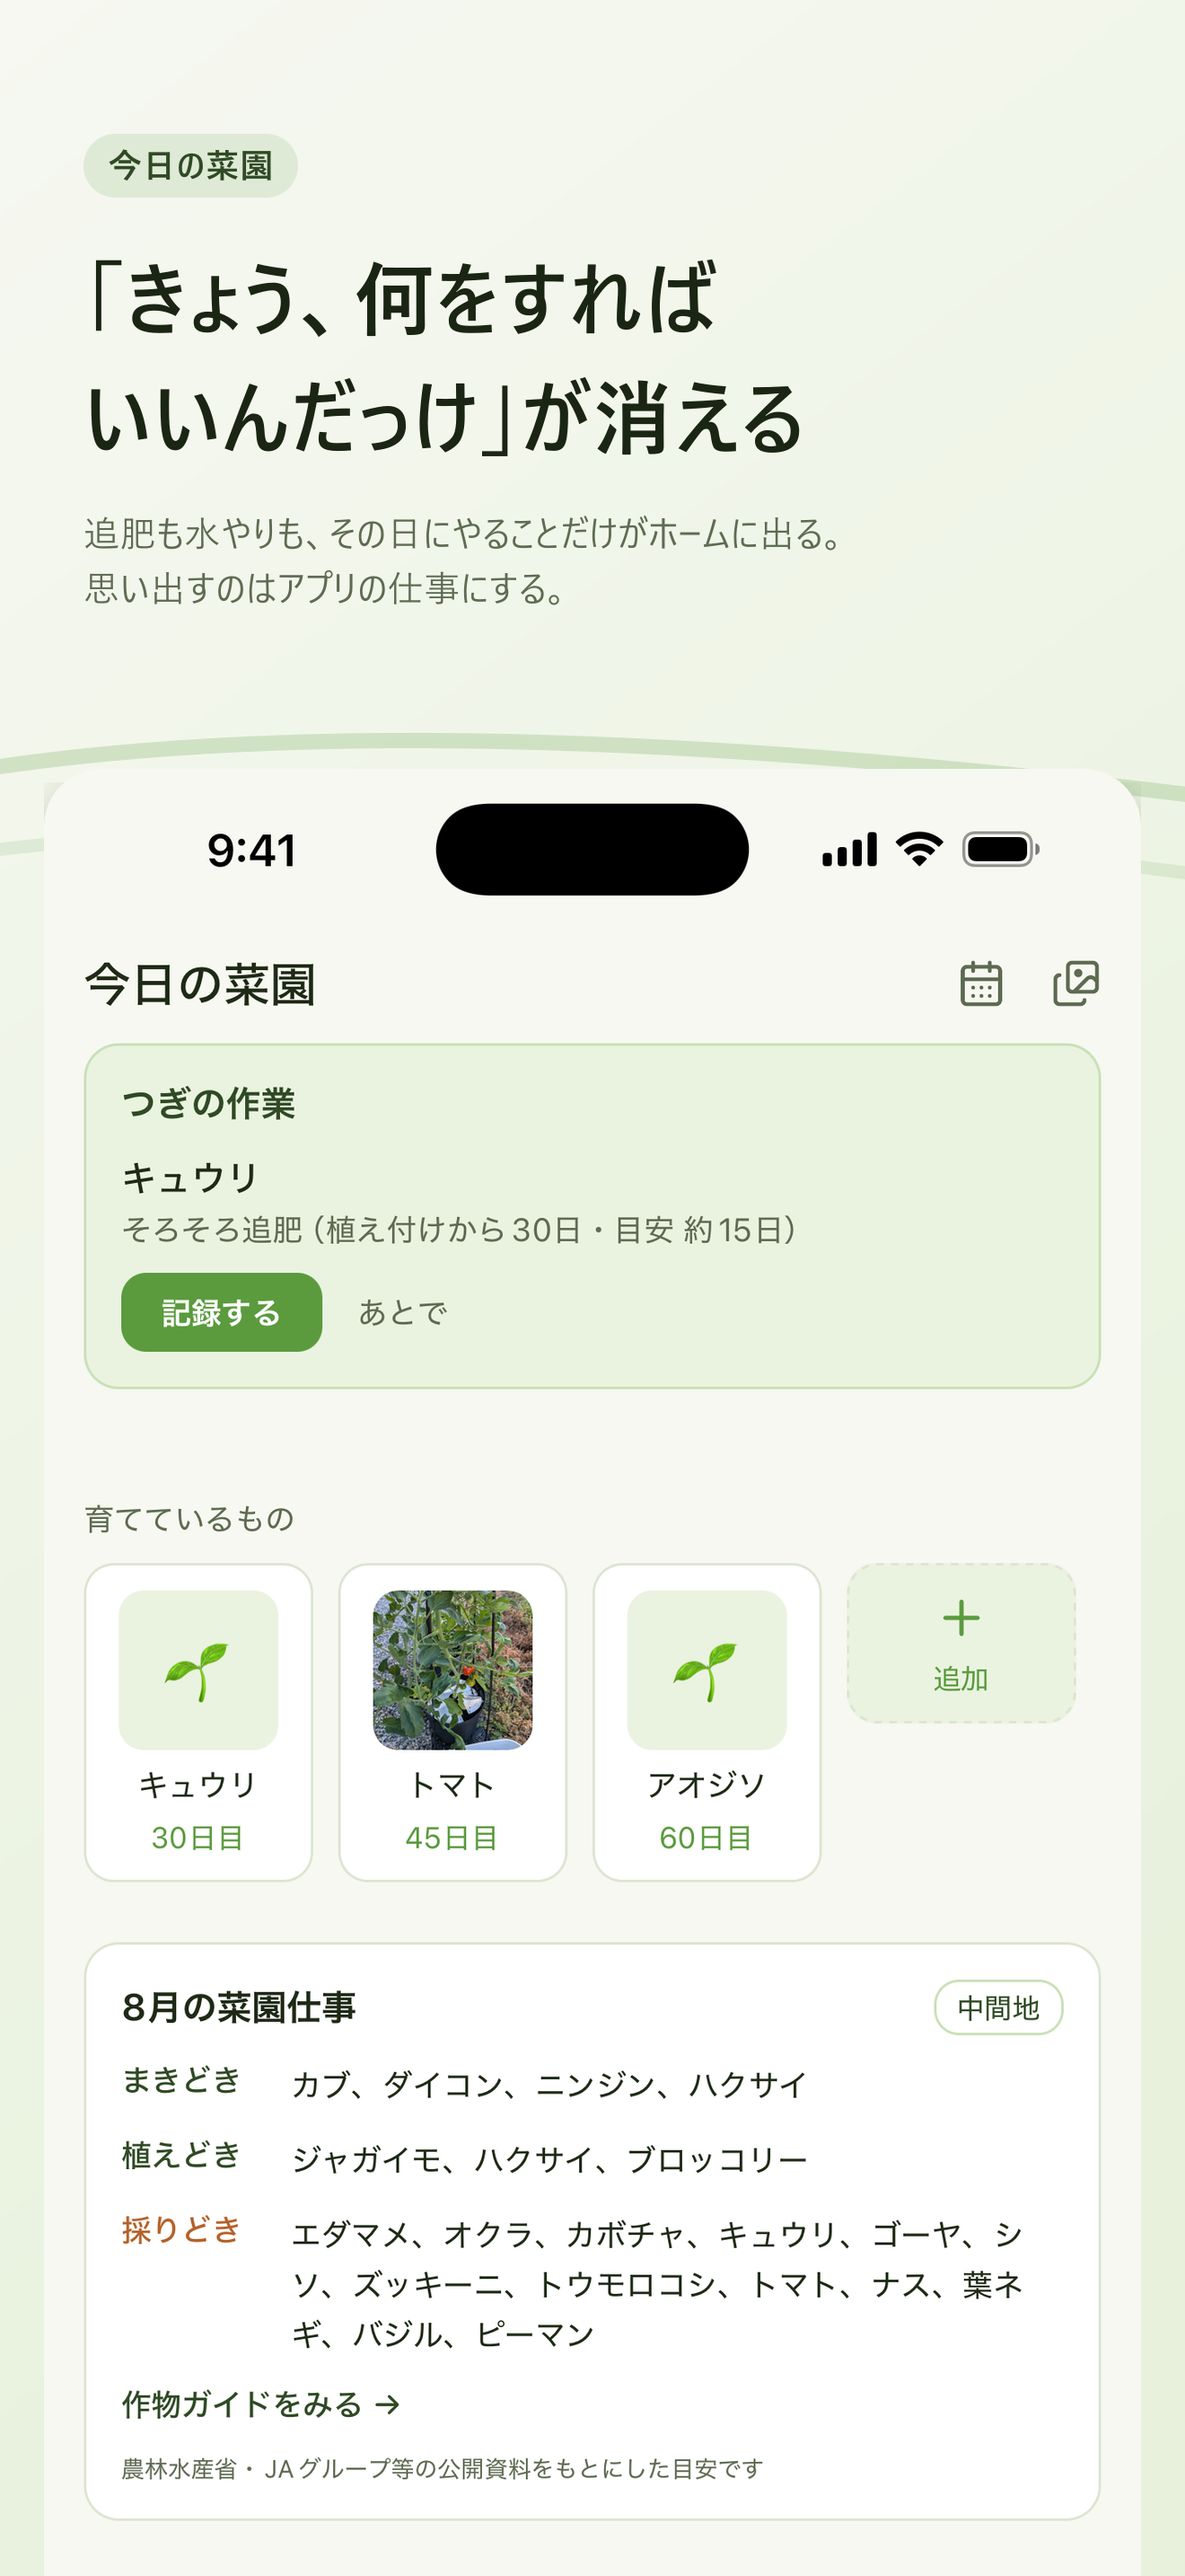
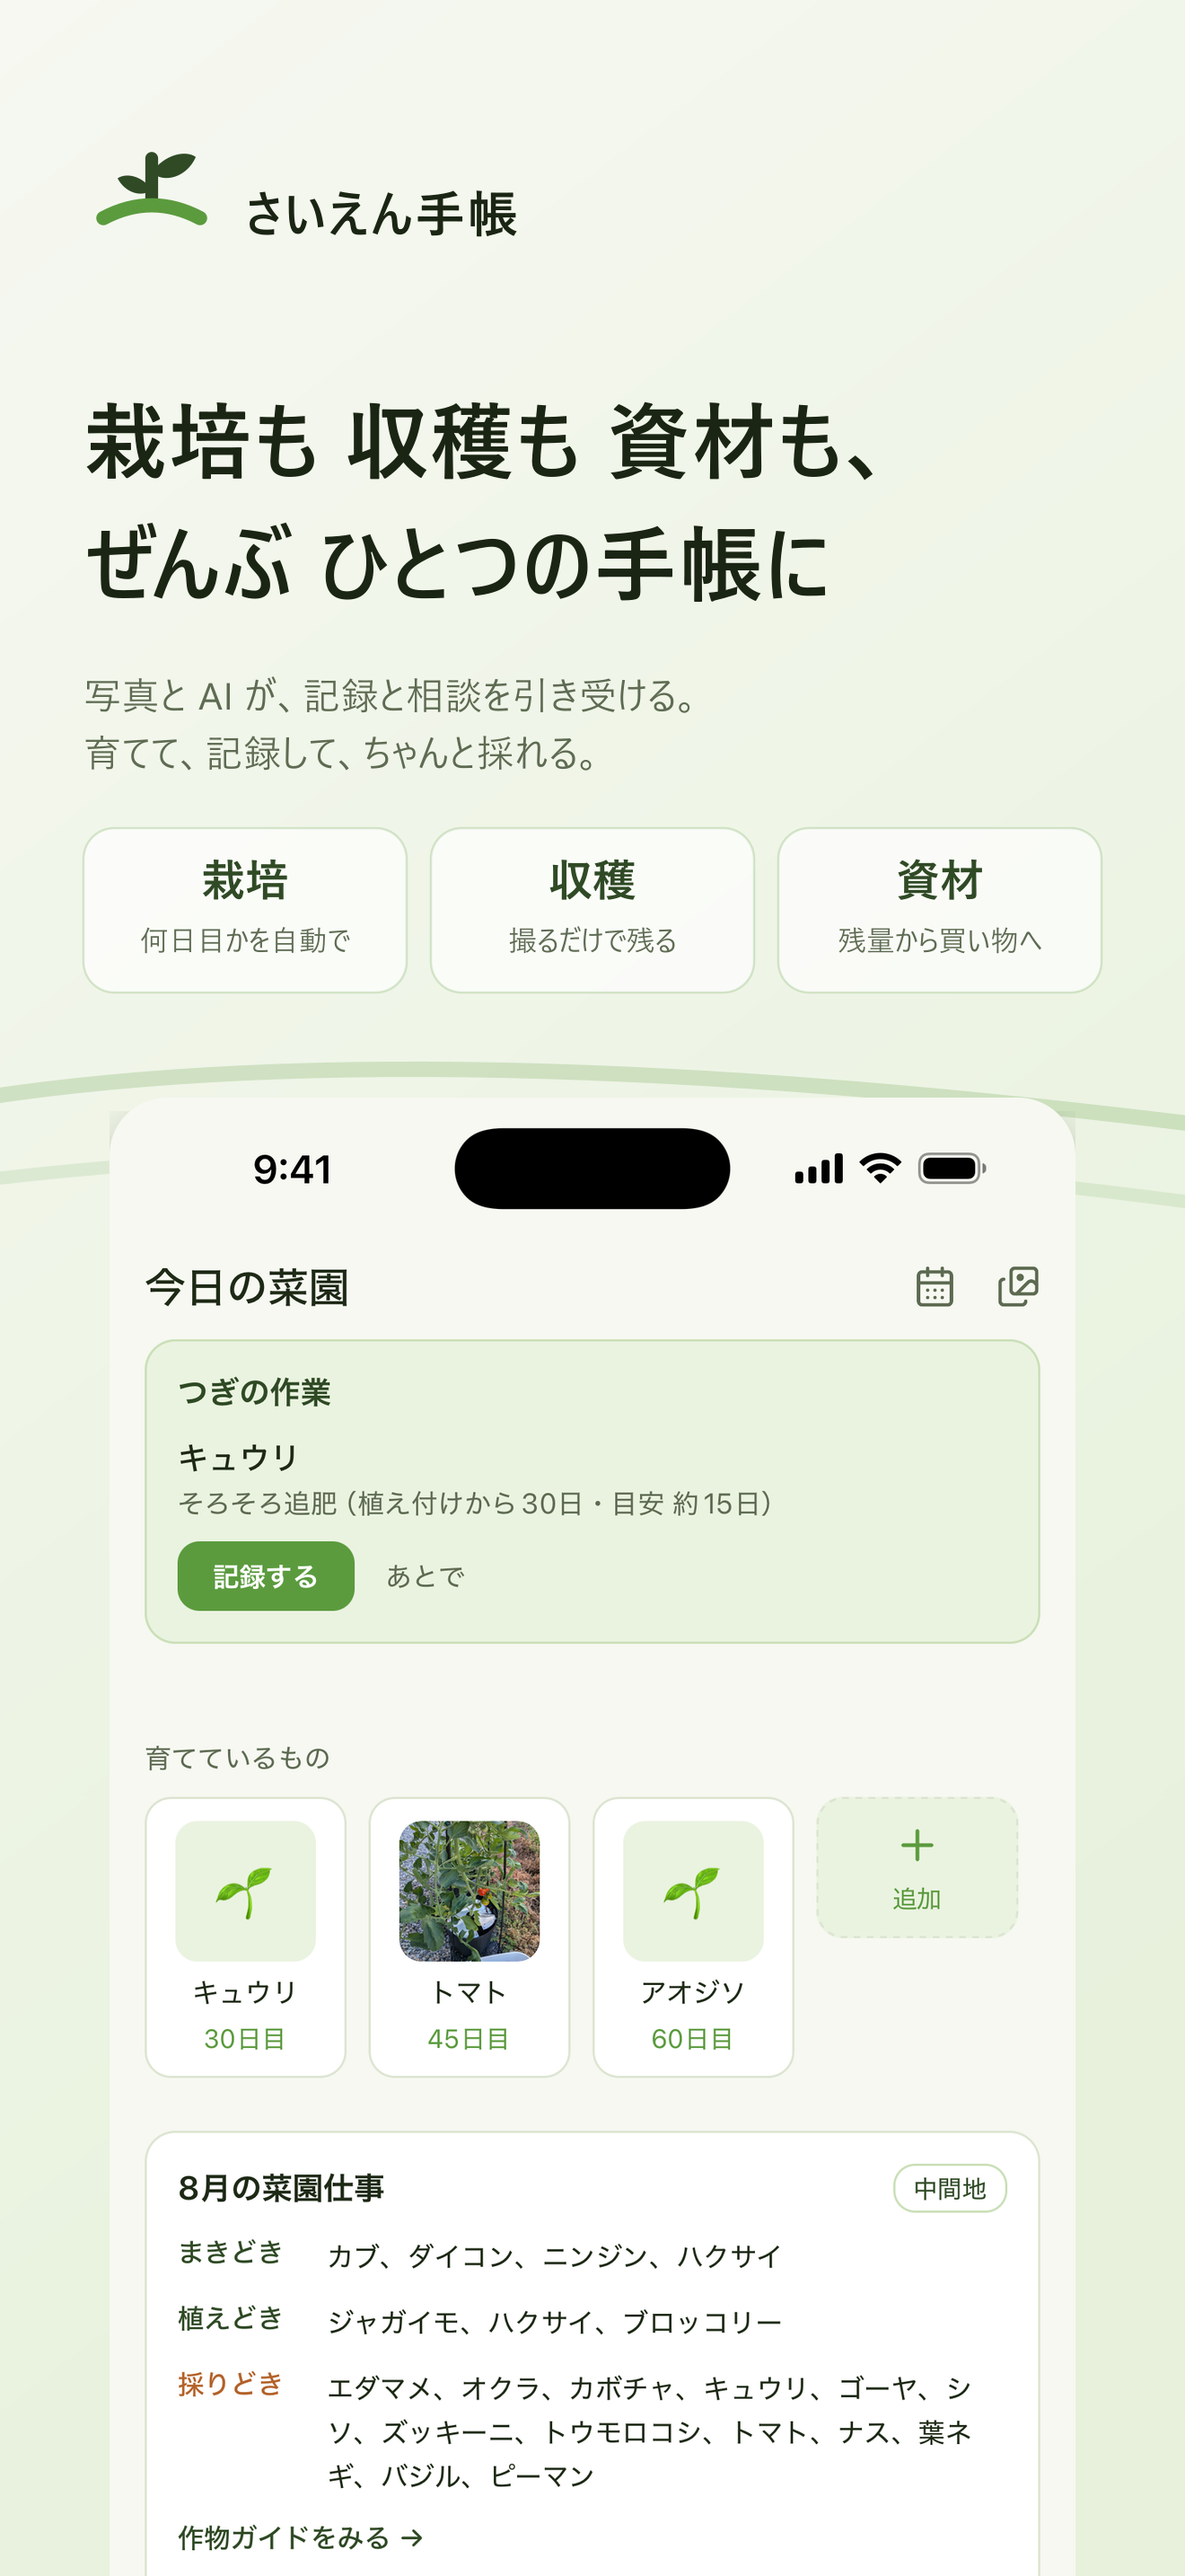
feat(store): 1 枚目をアプリ全体の紹介にし、書き方を手順化した
ストアの一覧で必ず見えるのは 1 枚目だけなので、個別機能（ホームの「今日やること」）
より先に「何のアプリか」を言い切る。マーク＋アプリ名＋見出し＋3 本柱のタイル
（栽培 / 収穫 / 資材）＋ホーム画面を下に覗かせる `type: 'hero'` を足した。

**AI がやることは盛らない。** 写真と AI が引き受けるのは収穫の数量読み取りと相談で、
資材の写真読み取りは未実装（#139）、栽培の写真一括登録は 1.2 で公開予定。
だから見出しは「3 つを 1 つの手帳に」＋「写真と AI が記録と相談を引き受ける」に留めた。

手順化:

- update-store-listing Skill に「キャプションの書き方」を追加
  （ヒーローの構成 / 見出しは機能名にしない / 利用者の言葉 / 改行は手で決める /
  盛らない・未公開機能を出さない / 表示順とファイル名は別物 / 版面の前提）
- docs/リリース手順.md §3 に capture → compose → 承認 → dry-run → 反映 の流れを図示
- iOS 側は `--ios` で同じ文言が載る（Mac 不要）ことを I5/I8 に明記済み

Refs #158

diff --git a/.claude/skills/update-store-listing/SKILL.md b/.claude/skills/update-store-listing/SKILL.md
@@ -61,10 +61,43 @@ ORDER 配列（**ファイル名の番号は撮影順で、表示順とは一致
    - ステータスバーは SystemUI デモモードで固定（09:00・電池100%・通知なし）
    - `manual` 指定のショット（AI 結果画面など）はスキップして既存ファイルを維持
    - 部分再取得: `--shots 01,04` / 対象レシピ変更: `--recipe recipe-3`
-5. **スクショはストア公開物 — 画像をユーザーに提示して承認を得る**
-6. ドライラン: `node scripts/release/update-play-screenshots.mjs --dry-run`（枚数・寸法検証）
-7. 反映: `node scripts/release/update-play-screenshots.mjs`（既存全削除→順番にアップロード→commit）
-8. PNG の変更を PR で develop にマージ
+5. **キャプションを合成**: `node scripts/release/compose-store-slides.mjs`
+   （`--play` / `--ios` で片方だけ）。`store-slides/` に書き出される
+6. **スクショはストア公開物 — 画像をユーザーに提示して承認を得る**
+7. ドライラン: `node scripts/release/update-play-screenshots.mjs --dry-run`（枚数・寸法検証）
+8. 反映: `node scripts/release/update-play-screenshots.mjs`（既存全削除→順番にアップロード→commit）
+9. PNG の変更を PR で develop にマージ
+
+### キャプションの書き方（`compose-store-slides.mjs` の `SLIDES`）
+
+**単一ソースは `SLIDES` 配列ひとつ。** Play と App Store で同じ文言・同じ順を使う。
+
+1. **1 枚目はアプリ全体の紹介（`type: 'hero'`）。** ストアの一覧で必ず見えるのはここだけ。
+   個別機能より先に「何のアプリか」を言い切る。マーク＋アプリ名＋見出し＋
+   3 本柱のタイル（`pillars`）＋ホーム画面を下に覗かせる構成
+2. **2 枚目以降の見出しは「解決される困りごと」。機能名にしない。**
+   ✗「作業ログ」 → ○「土のついた手でも、記録は 1 タップで終わる」。
+   機能名・仕組みは副文（`sub`）に落とす — 何の画面かは画像が示す
+3. **利用者の言葉で書く。**「何日目だっけ」「買い忘れ」のように、
+   本人が心の中で言っている台詞をそのまま見出しにすると刺さる
+4. **改行は手で決める**（`headline` は 1 要素 = 1 行）。和文の自動折り返しは
+   意味の切れ目を無視する。見出しは 2 行・1 行 14 字前後まで
+5. **盛らない。** 実装済みの範囲でだけ言う。
+   例: 写真と AI が引き受けるのは**収穫の数量読み取りと相談**で、
+   **資材の写真読み取りは未実装**（#139）、栽培の写真一括登録は 1.2 で公開予定。
+   だからヒーローは「3 つを 1 つの手帳に」＋「写真と AI が記録と相談を引き受ける」に留めている。
+   **未公開バージョンの機能をスクショに出さない**（ストアの版と食い違う）
+6. **表示順は訴求の強さ順**（`SLIDES` の順 = `update-play-screenshots.mjs` の ORDER）。
+   **ファイル名の番号は撮影順で、表示順とは一致しない** — 変えるときは両方直す
+
+版面の決まりごと（触るときの前提）:
+
+- 上 ~29% がキャプション帯、その下にスクショ。**中身が少ない画面**（資材・読み取り待ち）は
+  下半分が地の色のまま残って「未完成の画面」に見えるので、**中身の下端を画素で実測して切り、
+  幅を広げた「浮いたカード」にする**（自動判定。ナビバーは常に描かれるので走査から外している）
+- 中身が最後まである画面は下端からはみ出させる（続きがあることが伝わる）
+- 実装メモ: sharp は**同一インスタンスだと extract を composite より先に適用する**。
+  角丸マスクと切り出しを分けないと `must have same dimensions or smaller` で落ちる
 
 ## フィーチャーグラフィック（1024x500）
 

diff --git a/docs/リリース手順.md b/docs/リリース手順.md
@@ -24,8 +24,18 @@ docs/広告・収益化方針.md の表を参照。app.json（アプリ ID）と
 
 **ストアに上げるスクショは素のキャプチャではない。** `phone-screenshots/`（エミュレータの
 生キャプチャ）に**キャプションを載せたもの**が `store-slides/` で、上げるのはこちら。
-文言は `scripts/release/compose-store-slides.mjs` の `SLIDES`（Play と App Store で共通）。
-撮り直したら compose を実行し直す。
+
+```
+capture-store-screenshots.mjs      # 生キャプチャ → phone-screenshots/
+  → compose-store-slides.mjs       # キャプション合成 → store-slides/
+  → ユーザーに画像を提示して承認    # 掲載物なので必須
+  → update-play-screenshots.mjs --dry-run → 本実行
+```
+
+文言は `compose-store-slides.mjs` の `SLIDES` が単一ソース（**Play と App Store で共通**）。
+**1 枚目はアプリ全体の紹介（ヒーロー）、2 枚目以降は「解決される困りごと」を見出しにする**
+（機能名は副文へ）。書き方の決まりは update-store-listing Skill §キャプションの書き方。
+撮り直したら compose を実行し直す。App Store 側は `--ios` で同じ文言が載る（Mac 不要）。
 
 | 対象                                | 単一ソース                        | コマンド                                                                                                         |
 | ----------------------------------- | --------------------------------- | ---------------------------------------------------------------------------------------------------------------- |
